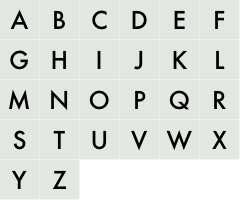
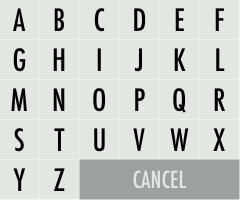
Make blank chooser cancelable.

diff --git a/Source/ViewControllers/MatchViewController.m b/Source/ViewControllers/MatchViewController.m
@@ -959,6 +959,8 @@ float squaredDistance(float x1, float y1, float x2, float y2) {
 
   Letter *letter = [[_match rackForCurrentUser] objectAtIndex:tileView.letter.rackIndex];
 
+  int rackIndexBefore = letter.rackIndex;
+
   if (![_match moveLetter:letter toBoardAtCellIndex:cellIndex])
     return NO;
 
@@ -975,11 +977,12 @@ float squaredDistance(float x1, float y1, float x2, float y2) {
       boardTileView.dragDelegate = self;
       [_boardScrollView.boardView addSubview:boardTileView];
 
-      //      [_rackView clearAtIndex:tileView.letter.rackIndex];
-
       [weakSelf performBlock:^(id sender) {
         [weakSelf zoomToLettersPlacedInThisTurn];
       } afterDelay:0.5];
+    } else {
+      [_match moveLetter:letter toRackAtIndex:rackIndexBefore];
+      [weakSelf setupRack];
     }
   };
 
@@ -1287,7 +1290,7 @@ float squaredDistance(float x1, float y1, float x2, float y2) {
 
     [weakSelf performBlock:^(id sender) {
       [weakSelf hideActivityHUD];
-    } afterDelay:1.5+0.6];
+    } afterDelay:1+0.6];
   }
 }
 

diff --git a/Source/Views/TileChooserView.m b/Source/Views/TileChooserView.m
@@ -49,9 +49,11 @@
   
   int letter = 'A' + cellsPerRow*row + col;
   
-  if (letter > 'Z')
+  if (letter > 'Z') {
+    _callback(0);
     return;
-  
+  }
+
   DLog(@"touched chooser at %d %d for letter '%c'", col, row, letter);
 
   if (_callback)
